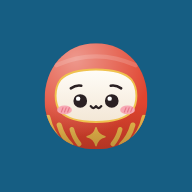
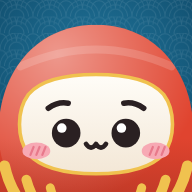
앱 아이콘 새로 디자인 (#6)
- 남색 그라데이션과 청해파 무늬 바탕에 루마의 얼굴을 크게 확대해 배치
- 루마를 아래쪽에 두고 하단을 몸통 색으로 채움
- 안드로이드 원형 마스크용 마스커블 아이콘을 따로 추가하고 매니페스트에 연결

diff --git a/vite.config.ts b/vite.config.ts
@@ -26,7 +26,7 @@ export default defineConfig({
         icons: [
           { src: 'icon-192.png', sizes: '192x192', type: 'image/png' },
           { src: 'icon-512.png', sizes: '512x512', type: 'image/png' },
-          { src: 'icon-512.png', sizes: '512x512', type: 'image/png', purpose: 'maskable' },
+          { src: 'icon-maskable-512.png', sizes: '512x512', type: 'image/png', purpose: 'maskable' },
         ],
       },
     }),
